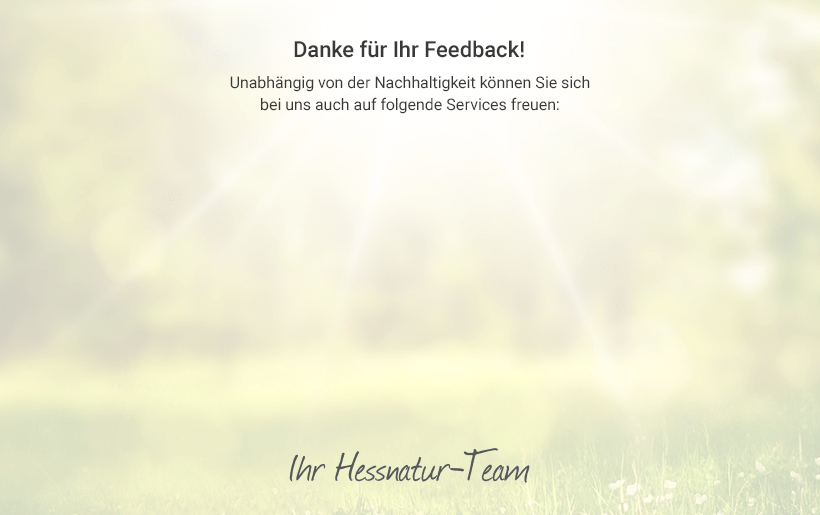
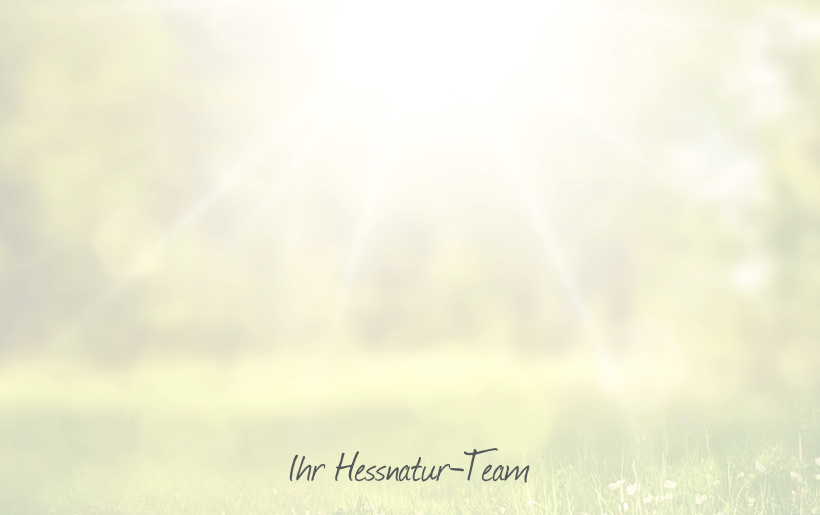
Textanpassungen, Goals und Segmente

Changed region(s): [[0.2744, 0.1553, 0.7317, 0.2175], [0.3354, 0.0621, 0.6402, 0.1243]]

diff --git a/2018/Sprint3-Commitment/src/variation-01/script.js b/2018/Sprint3-Commitment/src/variation-01/script.js
@@ -19,6 +19,14 @@
     // FIND ELEMENT
     WATO.elem('.smoBoxContainer', function(smoBoxContainer){
 
+        function pushGoal(key) {
+
+            WATO.qs('#wa-goals > li:last-child').insertAdjacentHTML('afterend', '<li style="list-style:none;">goal - ' + 's3_' + key + '</li>');
+            console.log("pushGoal: " + key);
+
+            window.iridion.push(['goal', 's3_' + key]);
+        }
+
         function addListener(object, listener, callback) {
 
             object.addEventListener(listener, callback);
@@ -59,13 +67,15 @@
 
         function showLayer(content) {
 
+            console.log("showLayer: " + content);
+
             content = parseInt(content);
 
             setStorage('finished');
 
-            var html    = '',
-                segment = false;
-
+            var html            = '',
+                headlineIndex   = content,
+                segment         = false;
 
             if(content === 0){
                 
@@ -78,12 +88,19 @@
                 segment = 32776;
 
                 // redirect to content
-                content = 1;
+                content = 0;
+                headlineIndex = 2;
             }
+
+            console.log(headlineIndex);
+            console.log(headlines[headlineIndex]);
 
             manageClass($waSurvey, 'hide');
             manageClass($waLayerBG, 'show');
             manageClass($waLayer, 'fade-in');
+
+            WATO.qs('h3', $waLayer).innerHTML = headlines[headlineIndex][0];
+            WATO.qs('p', $waLayer).innerHTML = headlines[headlineIndex][1];
 
             for(var i = 0; i < 3; i++){
     
@@ -97,6 +114,9 @@
 
             if(segment){
                 
+                WATO.qs('#wa-goals > li:last-child').insertAdjacentHTML('afterend', '<li style="list-style:none;">segment - ' + segment + '</li>');
+                console.log("pushSegment: " + segment);
+
                 window.iridion.push(['segment', segment]);
             }
 
@@ -110,6 +130,8 @@
 
                     window.setTimeout(function(){
                     
+                        pushGoal('uvps_open');
+
                         manageClass(WATO.qs('.wa-uvp:nth-child(3)'), 'fade-in');
                     }, 500);
                 }, 500);
@@ -117,6 +139,8 @@
         }
 
         function hideLayer() {
+
+            pushGoal('uvps_closed');
 
             manageClass($waLayerBG, 'show', true);
             manageClass($waLayerBG, 'fade-out');
@@ -152,7 +176,13 @@
         /**
          * START - ONLY FOR QS - START
          */
-        smoBoxContainer[0].insertAdjacentHTML('afterend', '<div id="wa-reset" style="cursor:pointer;text-align:center;line-height:25px;font-weight:bold;position:fixed;top:15px;left:15px;padding:0 15px;height:25px;background:red;color:#fff;z-index:99999999;">QS: Reset Layer</div>');
+        smoBoxContainer[0].insertAdjacentHTML('afterend', 
+            '<div id="wa-qs" style="border:1px solid black;padding:15px;position:fixed;top:15px;left:15px;z-index:99999999;background:#fff;">' +
+                '<div id="wa-reset" style="cursor:pointer;text-align:center;line-height:25px;font-weight:bold;padding:0 15px;height:25px;background:red;color:#fff;">QS: Reset Layer</div>' +
+                '<hr/>' +
+                '<ul id="wa-goals" style="margin:0;"><li style="font-weight:bold;list-style:none;">Goals</li></ul>' +
+            '</div>'
+        );
 
         WATO.qs('#wa-reset').addEventListener('click', function(){
 
@@ -179,6 +209,7 @@
                     '<div id="wa-wrapper">' + 
                         '<div class="wa-show">' + 
                             '<h3>Wie wichtig ist Ihnen<br/>Nachhaltigkeit in der Mode?</h3>' +
+                            '<p class="wa-hide">Wir würden uns über eine kurze Antwort freuen. Falls sie unsicher sind, klicken Sie<br/>auf den Text unterhalb der Auswahlmöglichkeiten<p>' +
                             '<label>' + 
                                 '<span>weniger wichtig</span>' +
                                 '<input type="radio" name="wa-question" value="0">' +
@@ -203,6 +234,8 @@
                 '<div id="wa-layer-bg"></div>' +
                 '<div id="wa-layer" class="wa-animated">' + 
                     '<div id="wa-layer-close"></div>' +
+                    '<h3></h3>' +
+                    '<p></p>' +
                     '<div id="wa-uvps"></div>' +
                 '</div>'
             );
@@ -219,6 +252,11 @@
                         ["3", "Faire Bedingungen auch<br/>im Produktionsland", "Wir sind Vorreiter für<br/>Verbesserung der sozialen<br/>Standards in der textilen<br/>Lieferkette."]
                     ]
                 ],
+                headlines = [
+                    ["Danke für Ihr Feedback!", "Unabhängig von der Nachhaltigkeit können Sie sich<br/>bei uns auch auf folgende Services freuen:"],
+                    ["Danke für Ihr Feedback!", "Schön, dass Ihnen Nachhaltigkeit auch so wichtig ist wie uns!<br/>Bei uns sind Sie an der richtigen Stelle."],
+                    ["Danke für ihr Feedback!", "Unsere hohen Ansprüche an die Nachhaltigkeit setzen<br/>wir folgendermaßen in die Tat um:"],
+                ],
                 path              = "https://s3-eu-west-1.amazonaws.com/webarts/Hessnatur/2018/Sprint3/wa-",
                 $waSurvey         = WATO.qs('#wa-survey'),
                 $waSurveyPulse    = WATO.qs('#wa-pulse', $waSurvey),
@@ -233,8 +271,14 @@
 
                 // set pulse animation after 1500ms
                 window.setTimeout(function(){
-
-                    manageClass($waSurveyPulse, 'pulse');
+                    
+                    manageClass($waSurveyPulse, 'fade-in');
+                    
+                    window.setTimeout(function(){
+                        
+                        manageClass($waSurveyPulse, 'fade-in', true);
+                        manageClass($waSurveyPulse, 'pulse');
+                    }, 1500);
                 }, 1500);
             }
 
@@ -306,18 +350,23 @@
 
             addListener($waSurvey, 'click', function(){
 
-                setStorage(false);
+                if(!$waSurvey.classList.contains('wa-large')){
 
-                // remove class wa-first, hide wa-pulse element
-                manageClass($waSurvey, 'first', true);
-                manageClass($waSurvey, 'animate');
-
-                animate("102", "0", function() {
-        
-                    manageClass($waSurvey, 'small', true);
-                    manageClass($waSurvey, 'animate', true);
-                    manageClass($waSurvey, 'large');
-                });
+                    setStorage(false);
+    
+                    // remove class wa-first, hide wa-pulse element
+                    manageClass($waSurvey, 'first', true);
+                    // manageClass($waSurvey, 'animate');
+    
+                    animate("102", "0", function() {
+            
+                        pushGoal("layer_open");
+    
+                        manageClass($waSurvey, 'small', true);
+                        // manageClass($waSurvey, 'animate', true);
+                        manageClass($waSurvey, 'large');
+                    });
+                }
             });
 
             /**
@@ -327,33 +376,37 @@
 
                 addListener($waSurveyButtons[i], 'click', function(){
         
-                    var event = this.getAttribute('data-target');
+                    // var event = this.getAttribute('data-target');
 
                     // if(event === "next"){
 
-                        var $view       = WATO.qs('#wa-wrapper .wa-show', $waSurvey),
-                            $radios     = WATO.qsa('input[name="wa-question"]'),        // jshint ignore:line
-                            validation  = false;
+                    // var $view       = WATO.qs('#wa-wrapper .wa-show', $waSurvey),
+                    var $radios     = WATO.qsa('input[name="wa-question"]'),        // jshint ignore:line
+                        validation  = false;
+                    
+                    /* jshint ignore:start */
+                    for(var i = 0; i < $radios.length; i++){
                         
-                        /* jshint ignore:start */
-                        for(var i = 0; i < $radios.length; i++){
+                        if($radios[i].checked){
                             
-                            if($radios[i].checked){
-                                
-                                showLayer($radios[i].value);
+                            showLayer($radios[i].value);
 
-                                validation = true;
-                                break;
-                            }
+                            validation = true;
+                            break;
                         }
-                        /* jshint ignore:end */
+                    }
+                    /* jshint ignore:end */
 
-                        if(!validation){
+                    if(!validation){
 
-                            manageClass(WATO.qs('#wa-wrapper label', $waSurvey), 'error');
+                        pushGoal('layer_send_error');
 
-                            return false;
-                        }
+                        manageClass(WATO.qs('#wa-wrapper', $waSurvey), 'error');
+
+                        return false;
+                    }
+
+                    pushGoal('layer_send');
 
                         // manageClass($view, 'show', true);
                         // manageClass($view, 'hide');

diff --git a/2018/Sprint3-Commitment/src/variation-01/style.less b/2018/Sprint3-Commitment/src/variation-01/style.less
@@ -34,6 +34,7 @@
     display: none;
     opacity: 0;
     position: fixed;
+    color: #393939;
     left: 50%;
     top: 50%;
     margin-left: -445px;
@@ -51,6 +52,19 @@
 
     -webkit-box-shadow: 0 0 50px -20px #000000;
     box-shadow: 0 0 50px -20px #000000;
+
+    & > h3 {
+        padding-top: 30px;
+        text-align: center;
+        font-size: 22px;
+        margin-bottom: 18px;
+    }
+
+    & > p {
+        font-size: 16px;
+        line-height: 22px;
+        text-align: center;
+    }
 }
 
 #wa-layer.wa-fade-in {
@@ -150,6 +164,7 @@
 
 #wa-pulse {
     display: none;
+    opacity: 0;
     position: absolute;
     // left: -14px;
     left: 36px;
@@ -165,6 +180,10 @@
 
     -webkit-border-radius: 15px 15px 15px 15px;
     border-radius: 15px 15px 15px 15px;
+
+    &.wa-pulse {
+        opacity: 1;
+    }
 }
 
 #wa-badge {
@@ -220,6 +239,30 @@
         text-align: center;
     }
 
+    &.wa-error {
+
+        p,
+        label {
+            color: #e52347;
+        }
+
+        p {
+            margin-bottom: 10px;
+            display: block !important;
+            text-align: center;
+        }
+
+        h3 {
+            margin-bottom: 15px;
+        }
+
+        input {
+            margin-bottom: 0px;
+            // height: 20px;
+            // width: 20px;
+        }
+    }
+
     & > div:nth-child(1) {
         padding-top: 40px;
 
@@ -227,10 +270,6 @@
             margin-bottom: 5px;
             display: block;
             text-align: center;
-
-            &.wa-error {
-                color: #e52347;
-            }
 
             span {
                 font-size: 14px;
@@ -251,18 +290,18 @@
         }
     }
 
-    & > div:nth-child(2) {
-        padding-top: 61px;
+    // & > div:nth-child(2) {
+    //     padding-top: 61px;
 
-        button {
-            margin-bottom: 49px;
-            width: 144px;
+    //     button {
+    //         margin-bottom: 49px;
+    //         width: 144px;
 
-            &[data-target="yes"] {
-                margin: 0 60px 0 108px;
-            }
-        }
-    }
+    //         &[data-target="yes"] {
+    //             margin: 0 60px 0 108px;
+    //         }
+    //     }
+    // }
 }
 
 #wa-arrow {

diff --git a/2018/Sprint3-Commitment/src/variation-01/script.min.js b/2018/Sprint3-Commitment/src/variation-01/script.min.js
@@ -1,1 +1,1 @@
-!function(e,i){"use strict";void 0===e.WATO&&(e.WATO=function(){}),e.WATO.prototype.elem=function(e,n,t,a,r){var o=this||a,s=r||Date.now(),d=!1,u;return Date.now()-s>1e4?(n(!1),!1):("string"==typeof e?(u=i.querySelectorAll(e),d=u.length>0):u=d=!0===e(),!0===d?n(u):setTimeout(o.elem.bind(null,e,n,t,o,s),t||20))},e.WATO.prototype.qs=function(e,n){return(n||i).querySelector(e)},e.WATO.prototype.qsa=function(e,n){return(n||i).querySelectorAll(e)},e.WATO.prototype.ready=function(e){(i.attachEvent?"complete"===i.readyState:"loading"!==i.readyState)?e():i.addEventListener("DOMContentLoaded",e)},e.WATO.prototype.exclude=function(n,t){function a(){(e.innerWidth||i.body.clientWidth)<=n&&!r&&(r=!0,t())}var r=!1;a(),"function"==typeof t&&(e.onresize=function(){a()})}}(window,document),function(e){"use strict";e.elem(".smoBoxContainer",function(i){function n(e,i,n){e.addEventListener(i,n)}function t(e,i){return e.classList.contains("wa-"+i)}function a(e,i,n){var t="wa-"+i,a=e.classList;n?a.remove(t):a.add(t)}function r(e,i,n){jQuery("#wa-badge").animate({left:e},750),jQuery("#wa-survey").animate({right:i},750,function(){n()})}function o(i){i=parseInt(i),l("finished");var n="",t=!1;0===i?t=32774:1===i?t=32775:2===i&&(t=32776,i=1),a(f,"hide"),a(g,"show"),a(m,"fade-in");for(var r=0;r<3;r++)n+='<div class="wa-uvp wa-animated wa-icon-'+c[i][r][0]+'"><h3>'+c[i][r][1]+"</h3><p>"+c[i][r][2]+"</p></div>";y.innerHTML=n,t&&window.iridion.push(["segment",t]),window.setTimeout(function(){a(e.qs(".wa-uvp:nth-child(1)"),"fade-in"),window.setTimeout(function(){a(e.qs(".wa-uvp:nth-child(2)"),"fade-in"),window.setTimeout(function(){a(e.qs(".wa-uvp:nth-child(3)"),"fade-in")},500)},500)},500)}function s(){a(g,"show",!0),a(g,"fade-out"),a(m,"fade-in",!0),a(m,"fade-out")}function d(e){var i=[];for(k=0;k<e.length;k++)i[k]=new Image,i[k].src=w+e[k]+".png"}function u(){return window.localStorage.getItem("wa-survey")}function l(e){"finished"!==u()&&window.localStorage.setItem("wa-survey",e)}if(i[0].insertAdjacentHTML("afterend",'<div id="wa-reset" style="cursor:pointer;text-align:center;line-height:25px;font-weight:bold;position:fixed;top:15px;left:15px;padding:0 15px;height:25px;background:red;color:#fff;z-index:99999999;">QS: Reset Layer</div>'),e.qs("#wa-reset").addEventListener("click",function(){window.localStorage.removeItem("wa-survey"),alert("Storage wurde zurückgesetzt. Reload."),window.location.href=window.location.href,window.location.reload()}),"finished"!==u()){i[0].insertAdjacentHTML("afterend",'<div id="wa-survey" class="wa-small wa-first">'+("true"===u()?'<div id="wa-pulse" class="wa-animated">1</div>':"")+'<div id="wa-badge" class="wa-animated"></div><div id="wa-arrow"></div><div id="wa-wrapper"><div class="wa-show"><h3>Wie wichtig ist Ihnen<br/>Nachhaltigkeit in der Mode?</h3><label><span>weniger wichtig</span><input type="radio" name="wa-question" value="0"><input type="radio" name="wa-question" value="0"><input type="radio" name="wa-question" value="1"><input type="radio" name="wa-question" value="1"><span>sehr wichtig</span></label><div id="wa-link"><a href="javascript:void(0);">Ich weiß nicht, was Nachhaltigkeit<br/>in der Mode bedeutet</a></div><button data-target="next" type="button">Antwort absenden</button></div></div></div><div id="wa-layer-bg"></div><div id="wa-layer" class="wa-animated"><div id="wa-layer-close"></div><div id="wa-uvps"></div></div>');var c=[[["1","Großes Sortiment an<br/>qualitativer Mode","Viele Produkte aus nachhaltigen<br/>Stoffen wie Bio-Baumwolle –<br/>hochwertig verarbeitet und<br/>in zeitlosem Design."],["4","Kostenlose<br/>Rücksendung","Sollte Ihnen ein Produkt<br/>einmal nicht gefallen, können<br/>Sie dies jederzeit umtauschen."],["5","Vielfältige<br/>Zahlungsarten","Bei uns können Sie zwischen<br/>Kauf auf Rechnung, Kreditkarte<br/>oder Paypal wählen."]],[["1","Mode, die Umwelt respektiert<br/>und Ressourcen schont","Viele Produkte aus nachhaltigen<br/>Stoffen wie Bio-Baumwolle –<br/>hochwertig verarbeitet und in<br/>zeitlosem Design."],["2","Klimaneutraler<br/>Versand","Aus liebe zur Umwelt verschicken<br/>wir Ihre Lieferung klimaneutral<br/>mit DHL GoGreen."],["3","Faire Bedingungen auch<br/>im Produktionsland","Wir sind Vorreiter für<br/>Verbesserung der sozialen<br/>Standards in der textilen<br/>Lieferkette."]]],w="https://s3-eu-west-1.amazonaws.com/webarts/Hessnatur/2018/Sprint3/wa-",f=e.qs("#wa-survey"),h=e.qs("#wa-pulse",f),v=e.qs("#wa-badge",f),p=e.qsa("#wa-wrapper button",f),g=e.qs("#wa-layer-bg"),m=e.qs("#wa-layer"),b=e.qs("#wa-layer-close",m),y=e.qs("#wa-uvps",m);h&&window.setTimeout(function(){a(h,"pulse")},1500),n(f,"mouseover",function(){t(this,"small")&&(a(v,"fade-out",!0),a(v,"fade-in"))}),n(f,"mouseout",function(){t(f,"small")&&(a(v,"fade-in",!0),a(v,"fade-out"))}),n(document,"click",function(e){if(f.classList.contains("wa-large")){if("wa-arrow"!==e.target.id){for(var i=!1,n=0;n<e.path.length;n++)if("wa-survey"===e.path[n].id){i=!0;break}if(i)return!1}t(f,"small")?(a(v,"fade-in",!0),a(v,"fade-out")):t(f,"large")&&r("-41","-564",function(){a(f,"large",!0),a(f,"small"),a(v,"fade-out")})}}),n(f,"click",function(){l(!1),a(f,"first",!0),a(f,"animate"),r("102","0",function(){a(f,"small",!0),a(f,"animate",!0),a(f,"large")})});for(var k=0;k<p.length;k++)n(p[k],"click",function(){for(var i=this.getAttribute("data-target"),n=e.qs("#wa-wrapper .wa-show",f),t=e.qsa('input[name="wa-question"]'),r=!1,s=0;s<t.length;s++)if(t[s].checked){o(t[s].value),r=!0;break}if(!r)return a(e.qs("#wa-wrapper label",f),"error"),!1});n(e.qs("#wa-link a",f),"click",function(){o(2)}),n(g,"click",function(){s()}),n(b,"click",function(){s()}),d(["badge","layer","icon-1","icon-2","icon-3","icon-4","icon-5"])}else console.info("Die Umfrage wird nicht länger ausgespielt!");null===u()&&l(!0)})}(new window.WATO);
+!function(e,n){"use strict";void 0===e.WATO&&(e.WATO=function(){}),e.WATO.prototype.elem=function(e,i,t,a,r){var o=this||a,s=r||Date.now(),l=!1,d;return Date.now()-s>1e4?(i(!1),!1):("string"==typeof e?(d=n.querySelectorAll(e),l=d.length>0):d=l=!0===e(),!0===l?i(d):setTimeout(o.elem.bind(null,e,i,t,o,s),t||20))},e.WATO.prototype.qs=function(e,i){return(i||n).querySelector(e)},e.WATO.prototype.qsa=function(e,i){return(i||n).querySelectorAll(e)},e.WATO.prototype.ready=function(e){(n.attachEvent?"complete"===n.readyState:"loading"!==n.readyState)?e():n.addEventListener("DOMContentLoaded",e)},e.WATO.prototype.exclude=function(i,t){function a(){(e.innerWidth||n.body.clientWidth)<=i&&!r&&(r=!0,t())}var r=!1;a(),"function"==typeof t&&(e.onresize=function(){a()})}}(window,document),function(e){"use strict";e.elem(".smoBoxContainer",function(n){function i(n){e.qs("#wa-goals > li:last-child").insertAdjacentHTML("afterend",'<li style="list-style:none;">goal - s3_'+n+"</li>"),console.log("pushGoal: "+n),window.iridion.push(["goal","s3_"+n])}function t(e,n,i){e.addEventListener(n,i)}function a(e,n){return e.classList.contains("wa-"+n)}function r(e,n,i){var t="wa-"+n,a=e.classList;i?a.remove(t):a.add(t)}function o(e,n,i){jQuery("#wa-badge").animate({left:e},750),jQuery("#wa-survey").animate({right:n},750,function(){i()})}function s(n){console.log("showLayer: "+n),n=parseInt(n),c("finished");var t="",a=n,o=!1;0===n?o=32774:1===n?o=32775:2===n&&(o=32776,n=0,a=2),console.log(a),console.log(f[a]),r(g,"hide"),r(m,"show"),r(y,"fade-in"),e.qs("h3",y).innerHTML=f[a][0],e.qs("p",y).innerHTML=f[a][1];for(var s=0;s<3;s++)t+='<div class="wa-uvp wa-animated wa-icon-'+w[n][s][0]+'"><h3>'+w[n][s][1]+"</h3><p>"+w[n][s][2]+"</p></div>";q.innerHTML=t,o&&(e.qs("#wa-goals > li:last-child").insertAdjacentHTML("afterend",'<li style="list-style:none;">segment - '+o+"</li>"),console.log("pushSegment: "+o),window.iridion.push(["segment",o])),window.setTimeout(function(){r(e.qs(".wa-uvp:nth-child(1)"),"fade-in"),window.setTimeout(function(){r(e.qs(".wa-uvp:nth-child(2)"),"fade-in"),window.setTimeout(function(){i("uvps_open"),r(e.qs(".wa-uvp:nth-child(3)"),"fade-in")},500)},500)},500)}function l(){i("uvps_closed"),r(m,"show",!0),r(m,"fade-out"),r(y,"fade-in",!0),r(y,"fade-out")}function d(e){var n=[];for(S=0;S<e.length;S++)n[S]=new Image,n[S].src=h+e[S]+".png"}function u(){return window.localStorage.getItem("wa-survey")}function c(e){"finished"!==u()&&window.localStorage.setItem("wa-survey",e)}if(n[0].insertAdjacentHTML("afterend",'<div id="wa-qs" style="border:1px solid black;padding:15px;position:fixed;top:15px;left:15px;z-index:99999999;background:#fff;"><div id="wa-reset" style="cursor:pointer;text-align:center;line-height:25px;font-weight:bold;padding:0 15px;height:25px;background:red;color:#fff;">QS: Reset Layer</div><hr/><ul id="wa-goals" style="margin:0;"><li style="font-weight:bold;list-style:none;">Goals</li></ul></div>'),e.qs("#wa-reset").addEventListener("click",function(){window.localStorage.removeItem("wa-survey"),alert("Storage wurde zurückgesetzt. Reload."),window.location.href=window.location.href,window.location.reload()}),"finished"!==u()){n[0].insertAdjacentHTML("afterend",'<div id="wa-survey" class="wa-small wa-first">'+("true"===u()?'<div id="wa-pulse" class="wa-animated">1</div>':"")+'<div id="wa-badge" class="wa-animated"></div><div id="wa-arrow"></div><div id="wa-wrapper"><div class="wa-show"><h3>Wie wichtig ist Ihnen<br/>Nachhaltigkeit in der Mode?</h3><p class="wa-hide">Wir würden uns über eine kurze Antwort freuen. Falls sie unsicher sind, klicken Sie<br/>auf den Text unterhalb der Auswahlmöglichkeiten<p><label><span>weniger wichtig</span><input type="radio" name="wa-question" value="0"><input type="radio" name="wa-question" value="0"><input type="radio" name="wa-question" value="1"><input type="radio" name="wa-question" value="1"><span>sehr wichtig</span></label><div id="wa-link"><a href="javascript:void(0);">Ich weiß nicht, was Nachhaltigkeit<br/>in der Mode bedeutet</a></div><button data-target="next" type="button">Antwort absenden</button></div></div></div><div id="wa-layer-bg"></div><div id="wa-layer" class="wa-animated"><div id="wa-layer-close"></div><h3></h3><p></p><div id="wa-uvps"></div></div>');var w=[[["1","Großes Sortiment an<br/>qualitativer Mode","Viele Produkte aus nachhaltigen<br/>Stoffen wie Bio-Baumwolle –<br/>hochwertig verarbeitet und<br/>in zeitlosem Design."],["4","Kostenlose<br/>Rücksendung","Sollte Ihnen ein Produkt<br/>einmal nicht gefallen, können<br/>Sie dies jederzeit umtauschen."],["5","Vielfältige<br/>Zahlungsarten","Bei uns können Sie zwischen<br/>Kauf auf Rechnung, Kreditkarte<br/>oder Paypal wählen."]],[["1","Mode, die Umwelt respektiert<br/>und Ressourcen schont","Viele Produkte aus nachhaltigen<br/>Stoffen wie Bio-Baumwolle –<br/>hochwertig verarbeitet und in<br/>zeitlosem Design."],["2","Klimaneutraler<br/>Versand","Aus liebe zur Umwelt verschicken<br/>wir Ihre Lieferung klimaneutral<br/>mit DHL GoGreen."],["3","Faire Bedingungen auch<br/>im Produktionsland","Wir sind Vorreiter für<br/>Verbesserung der sozialen<br/>Standards in der textilen<br/>Lieferkette."]]],f=[["Danke für Ihr Feedback!","Unabhängig von der Nachhaltigkeit können Sie sich<br/>bei uns auch auf folgende Services freuen:"],["Danke für Ihr Feedback!","Schön, dass Ihnen Nachhaltigkeit auch so wichtig ist wie uns!<br/>Bei uns sind Sie an der richtigen Stelle."],["Danke für ihr Feedback!","Unsere hohen Ansprüche an die Nachhaltigkeit setzen<br/>wir folgendermaßen in die Tat um:"]],h="https://s3-eu-west-1.amazonaws.com/webarts/Hessnatur/2018/Sprint3/wa-",g=e.qs("#wa-survey"),p=e.qs("#wa-pulse",g),v=e.qs("#wa-badge",g),b=e.qsa("#wa-wrapper button",g),m=e.qs("#wa-layer-bg"),y=e.qs("#wa-layer"),k=e.qs("#wa-layer-close",y),q=e.qs("#wa-uvps",y);p&&window.setTimeout(function(){r(p,"fade-in"),window.setTimeout(function(){r(p,"fade-in",!0),r(p,"pulse")},1500)},1500),t(g,"mouseover",function(){a(this,"small")&&(r(v,"fade-out",!0),r(v,"fade-in"))}),t(g,"mouseout",function(){a(g,"small")&&(r(v,"fade-in",!0),r(v,"fade-out"))}),t(document,"click",function(e){if(g.classList.contains("wa-large")){if("wa-arrow"!==e.target.id){for(var n=!1,i=0;i<e.path.length;i++)if("wa-survey"===e.path[i].id){n=!0;break}if(n)return!1}a(g,"small")?(r(v,"fade-in",!0),r(v,"fade-out")):a(g,"large")&&o("-41","-564",function(){r(g,"large",!0),r(g,"small"),r(v,"fade-out")})}}),t(g,"click",function(){g.classList.contains("wa-large")||(c(!1),r(g,"first",!0),o("102","0",function(){i("layer_open"),r(g,"small",!0),r(g,"large")}))});for(var S=0;S<b.length;S++)t(b[S],"click",function(){for(var n=e.qsa('input[name="wa-question"]'),t=!1,a=0;a<n.length;a++)if(n[a].checked){s(n[a].value),t=!0;break}if(!t)return i("layer_send_error"),r(e.qs("#wa-wrapper",g),"error"),!1;i("layer_send")});t(e.qs("#wa-link a",g),"click",function(){s(2)}),t(m,"click",function(){l()}),t(k,"click",function(){l()}),d(["badge","layer","icon-1","icon-2","icon-3","icon-4","icon-5"])}else console.info("Die Umfrage wird nicht länger ausgespielt!");null===u()&&c(!0)})}(new window.WATO);

diff --git a/2018/Sprint3-Commitment/src/variation-01/style.css b/2018/Sprint3-Commitment/src/variation-01/style.css
@@ -1,1 +1,1 @@
-.wa-show{display:block!important}.wa-hide{display:none!important}#wa-layer-bg{display:none;position:absolute;top:0;left:0;width:100%;height:100%;z-index:1100;background-color:#777;opacity:.7}#wa-layer{display:none;opacity:0;position:fixed;left:50%;top:50%;margin-left:-445px;margin-top:-292px;width:890px;padding:30px;height:584px;background:#fff;z-index:1102;border:5px solid #cbf1a5;background:#fff url(https://s3-eu-west-1.amazonaws.com/webarts/Hessnatur/2018/Sprint3/wa-layer.png) no-repeat center center;-webkit-box-shadow:0 0 50px -20px #000;box-shadow:0 0 50px -20px #000}#wa-layer.wa-fade-in{display:block}#wa-layer-close{position:absolute;right:10px;top:10px;width:13px;height:13px;cursor:pointer;background:url(https://s3-eu-west-1.amazonaws.com/webarts/Hessnatur/2018/Sprint3/wa-layer-close.png) no-repeat 0 0}.wa-uvp{opacity:0;position:absolute;top:185px;left:60px;width:238px;height:268px;border:1px solid #d9d9d8;background:#fff;-webkit-border-radius:3px 3px 3px 3px;border-radius:3px 3px 3px 3px}.wa-uvp h3{margin-top:120px;margin-bottom:15px;font-size:14px;line-height:18px;text-align:center;font-family:Roboto,Arial,Helvetica,sans-serif}.wa-uvp p{text-align:center;font-size:12px;line-height:16px}.wa-uvp:nth-child(2){left:320px}.wa-uvp:nth-child(3){left:580px}.wa-uvp.wa-icon-1{background:#fff url(https://s3-eu-west-1.amazonaws.com/webarts/Hessnatur/2018/Sprint3/wa-icon-1.png) no-repeat center 40px}.wa-uvp.wa-icon-2{background:#fff url(https://s3-eu-west-1.amazonaws.com/webarts/Hessnatur/2018/Sprint3/wa-icon-2.png) no-repeat center 40px}.wa-uvp.wa-icon-3{background:#fff url(https://s3-eu-west-1.amazonaws.com/webarts/Hessnatur/2018/Sprint3/wa-icon-3.png) no-repeat center 40px}.wa-uvp.wa-icon-4{background:#fff url(https://s3-eu-west-1.amazonaws.com/webarts/Hessnatur/2018/Sprint3/wa-icon-4.png) no-repeat center 40px}.wa-uvp.wa-icon-5{background:#fff url(https://s3-eu-west-1.amazonaws.com/webarts/Hessnatur/2018/Sprint3/wa-icon-5.png) no-repeat center 40px}#wa-survey{position:fixed;right:-564px;top:20%;height:326px;padding-left:50px;width:667px;z-index:99999}#wa-survey.wa-small{cursor:pointer}#wa-survey.wa-first #wa-pulse{display:block}#wa-pulse{display:none;position:absolute;left:36px;top:-14px;width:30px;height:30px;text-align:center;line-height:26px;color:#fff;background:#cf002c;border:2px solid #fff;z-index:9999998;-webkit-border-radius:15px 15px 15px 15px;border-radius:15px 15px 15px 15px}#wa-badge{opacity:0;position:absolute;left:-41px;top:-73px;width:148px;height:148px;background:url(https://s3-eu-west-1.amazonaws.com/webarts/Hessnatur/2018/Sprint3/wa-badge.png) no-repeat 0 0;z-index:9999999}#wa-wrapper{position:relative;padding-left:53px;height:326px;width:617px;background:#fff url(https://s3-eu-west-1.amazonaws.com/webarts/Hessnatur/2018/Sprint3/wa-survey.png) no-repeat 20px 0;-webkit-border-radius:5px 0 0 5px;border-radius:5px 0 0 5px;-webkit-box-shadow:0 0 50px -20px #000;box-shadow:0 0 50px -20px #000;z-index:999999}#wa-wrapper h3{font-size:22px;line-height:28px;color:#393939;text-align:center}#wa-wrapper button{height:38px;cursor:pointer;text-align:center;color:#fff;background:#000;-webkit-border-radius:5px 5px 5px 5px;border-radius:5px 5px 5px 5px}#wa-wrapper #wa-link{font-size:14px;line-height:20px;text-align:center}#wa-wrapper>div:nth-child(1){padding-top:40px}#wa-wrapper>div:nth-child(1) label{margin-bottom:5px;display:block;text-align:center}#wa-wrapper>div:nth-child(1) label.wa-error{color:#e52347}#wa-wrapper>div:nth-child(1) label span{font-size:14px;padding:0 22px 0 11px}#wa-wrapper>div:nth-child(1) label input{margin-top:5px;cursor:pointer}#wa-wrapper>div:nth-child(1) button{position:absolute;bottom:40px;width:221px;left:223px}#wa-wrapper>div:nth-child(2){padding-top:61px}#wa-wrapper>div:nth-child(2) button{margin-bottom:49px;width:144px}#wa-wrapper>div:nth-child(2) button[data-target=yes]{margin:0 60px 0 108px}#wa-arrow{position:absolute;left:26px;top:50%;margin-top:-27px;height:54px;width:24px;background:#fff url(https://s3-eu-west-1.amazonaws.com/webarts/Hessnatur/2018/Sprint3/wa-left.png) no-repeat center center;-webkit-border-radius:3px 0 0 3px;border-radius:3px 0 0 3px;z-index:999998}.wa-large #wa-arrow{background-image:url(https://s3-eu-west-1.amazonaws.com/webarts/Hessnatur/2018/Sprint3/wa-right.png)}.wa-animated{-webkit-animation-duration:1s;animation-duration:1s;-webkit-animation-fill-mode:both;animation-fill-mode:both}@-webkit-keyframes waPulse{from{-webkit-transform:scale3d(1,1,1);transform:scale3d(1,1,1)}50%{-webkit-transform:scale3d(1.2,1.2,1.2);transform:scale3d(1.2,1.2,1.2)}to{-webkit-transform:scale3d(1,1,1);transform:scale3d(1,1,1)}}@keyframes waPulse{from{-webkit-transform:scale3d(1,1,1);transform:scale3d(1,1,1)}50%{-webkit-transform:scale3d(1.2,1.2,1.2);transform:scale3d(1.2,1.2,1.2)}to{-webkit-transform:scale3d(1,1,1);transform:scale3d(1,1,1)}}.wa-pulse{-webkit-animation-name:waPulse;animation-name:waPulse}@-webkit-keyframes waFadeIn{from{opacity:0}to{opacity:1}}@keyframes waFadeIn{from{opacity:0}to{opacity:1}}.wa-fade-in{-webkit-animation-name:waFadeIn;animation-name:waFadeIn}@-webkit-keyframes waFadeOut{from{opacity:1}to{opacity:0}}@keyframes waFadeOut{from{opacity:1}to{opacity:0}}.wa-fade-out{-webkit-animation-name:waFadeOut;animation-name:waFadeOut}@media (max-width:779px){#wa-survey{display:none!important}}
+.wa-show{display:block!important}.wa-hide{display:none!important}#wa-layer-bg{display:none;position:absolute;top:0;left:0;width:100%;height:100%;z-index:1100;background-color:#777;opacity:.7}#wa-layer{display:none;opacity:0;position:fixed;color:#393939;left:50%;top:50%;margin-left:-445px;margin-top:-292px;width:890px;padding:30px;height:584px;background:#fff;z-index:1102;border:5px solid #cbf1a5;background:#fff url(https://s3-eu-west-1.amazonaws.com/webarts/Hessnatur/2018/Sprint3/wa-layer.png) no-repeat center center;-webkit-box-shadow:0 0 50px -20px #000;box-shadow:0 0 50px -20px #000}#wa-layer>h3{padding-top:30px;text-align:center;font-size:22px;margin-bottom:18px}#wa-layer>p{font-size:16px;line-height:22px;text-align:center}#wa-layer.wa-fade-in{display:block}#wa-layer-close{position:absolute;right:10px;top:10px;width:13px;height:13px;cursor:pointer;background:url(https://s3-eu-west-1.amazonaws.com/webarts/Hessnatur/2018/Sprint3/wa-layer-close.png) no-repeat 0 0}.wa-uvp{opacity:0;position:absolute;top:185px;left:60px;width:238px;height:268px;border:1px solid #d9d9d8;background:#fff;-webkit-border-radius:3px 3px 3px 3px;border-radius:3px 3px 3px 3px}.wa-uvp h3{margin-top:120px;margin-bottom:15px;font-size:14px;line-height:18px;text-align:center;font-family:Roboto,Arial,Helvetica,sans-serif}.wa-uvp p{text-align:center;font-size:12px;line-height:16px}.wa-uvp:nth-child(2){left:320px}.wa-uvp:nth-child(3){left:580px}.wa-uvp.wa-icon-1{background:#fff url(https://s3-eu-west-1.amazonaws.com/webarts/Hessnatur/2018/Sprint3/wa-icon-1.png) no-repeat center 40px}.wa-uvp.wa-icon-2{background:#fff url(https://s3-eu-west-1.amazonaws.com/webarts/Hessnatur/2018/Sprint3/wa-icon-2.png) no-repeat center 40px}.wa-uvp.wa-icon-3{background:#fff url(https://s3-eu-west-1.amazonaws.com/webarts/Hessnatur/2018/Sprint3/wa-icon-3.png) no-repeat center 40px}.wa-uvp.wa-icon-4{background:#fff url(https://s3-eu-west-1.amazonaws.com/webarts/Hessnatur/2018/Sprint3/wa-icon-4.png) no-repeat center 40px}.wa-uvp.wa-icon-5{background:#fff url(https://s3-eu-west-1.amazonaws.com/webarts/Hessnatur/2018/Sprint3/wa-icon-5.png) no-repeat center 40px}#wa-survey{position:fixed;right:-564px;top:20%;height:326px;padding-left:50px;width:667px;z-index:99999}#wa-survey.wa-small{cursor:pointer}#wa-survey.wa-first #wa-pulse{display:block}#wa-pulse{display:none;opacity:0;position:absolute;left:36px;top:-14px;width:30px;height:30px;text-align:center;line-height:26px;color:#fff;background:#cf002c;border:2px solid #fff;z-index:9999998;-webkit-border-radius:15px 15px 15px 15px;border-radius:15px 15px 15px 15px}#wa-pulse.wa-pulse{opacity:1}#wa-badge{opacity:0;position:absolute;left:-41px;top:-73px;width:148px;height:148px;background:url(https://s3-eu-west-1.amazonaws.com/webarts/Hessnatur/2018/Sprint3/wa-badge.png) no-repeat 0 0;z-index:9999999}#wa-wrapper{position:relative;padding-left:53px;height:326px;width:617px;background:#fff url(https://s3-eu-west-1.amazonaws.com/webarts/Hessnatur/2018/Sprint3/wa-survey.png) no-repeat 20px 0;-webkit-border-radius:5px 0 0 5px;border-radius:5px 0 0 5px;-webkit-box-shadow:0 0 50px -20px #000;box-shadow:0 0 50px -20px #000;z-index:999999}#wa-wrapper h3{font-size:22px;line-height:28px;color:#393939;text-align:center}#wa-wrapper button{height:38px;cursor:pointer;text-align:center;color:#fff;background:#000;-webkit-border-radius:5px 5px 5px 5px;border-radius:5px 5px 5px 5px}#wa-wrapper #wa-link{font-size:14px;line-height:20px;text-align:center}#wa-wrapper.wa-error label,#wa-wrapper.wa-error p{color:#e52347}#wa-wrapper.wa-error p{margin-bottom:10px;display:block!important;text-align:center}#wa-wrapper.wa-error h3{margin-bottom:15px}#wa-wrapper.wa-error input{margin-bottom:0}#wa-wrapper>div:nth-child(1){padding-top:40px}#wa-wrapper>div:nth-child(1) label{margin-bottom:5px;display:block;text-align:center}#wa-wrapper>div:nth-child(1) label span{font-size:14px;padding:0 22px 0 11px}#wa-wrapper>div:nth-child(1) label input{margin-top:5px;cursor:pointer}#wa-wrapper>div:nth-child(1) button{position:absolute;bottom:40px;width:221px;left:223px}#wa-arrow{position:absolute;left:26px;top:50%;margin-top:-27px;height:54px;width:24px;background:#fff url(https://s3-eu-west-1.amazonaws.com/webarts/Hessnatur/2018/Sprint3/wa-left.png) no-repeat center center;-webkit-border-radius:3px 0 0 3px;border-radius:3px 0 0 3px;z-index:999998}.wa-large #wa-arrow{background-image:url(https://s3-eu-west-1.amazonaws.com/webarts/Hessnatur/2018/Sprint3/wa-right.png)}.wa-animated{-webkit-animation-duration:1s;animation-duration:1s;-webkit-animation-fill-mode:both;animation-fill-mode:both}@-webkit-keyframes waPulse{from{-webkit-transform:scale3d(1,1,1);transform:scale3d(1,1,1)}50%{-webkit-transform:scale3d(1.2,1.2,1.2);transform:scale3d(1.2,1.2,1.2)}to{-webkit-transform:scale3d(1,1,1);transform:scale3d(1,1,1)}}@keyframes waPulse{from{-webkit-transform:scale3d(1,1,1);transform:scale3d(1,1,1)}50%{-webkit-transform:scale3d(1.2,1.2,1.2);transform:scale3d(1.2,1.2,1.2)}to{-webkit-transform:scale3d(1,1,1);transform:scale3d(1,1,1)}}.wa-pulse{-webkit-animation-name:waPulse;animation-name:waPulse}@-webkit-keyframes waFadeIn{from{opacity:0}to{opacity:1}}@keyframes waFadeIn{from{opacity:0}to{opacity:1}}.wa-fade-in{-webkit-animation-name:waFadeIn;animation-name:waFadeIn}@-webkit-keyframes waFadeOut{from{opacity:1}to{opacity:0}}@keyframes waFadeOut{from{opacity:1}to{opacity:0}}.wa-fade-out{-webkit-animation-name:waFadeOut;animation-name:waFadeOut}@media (max-width:779px){#wa-survey{display:none!important}}